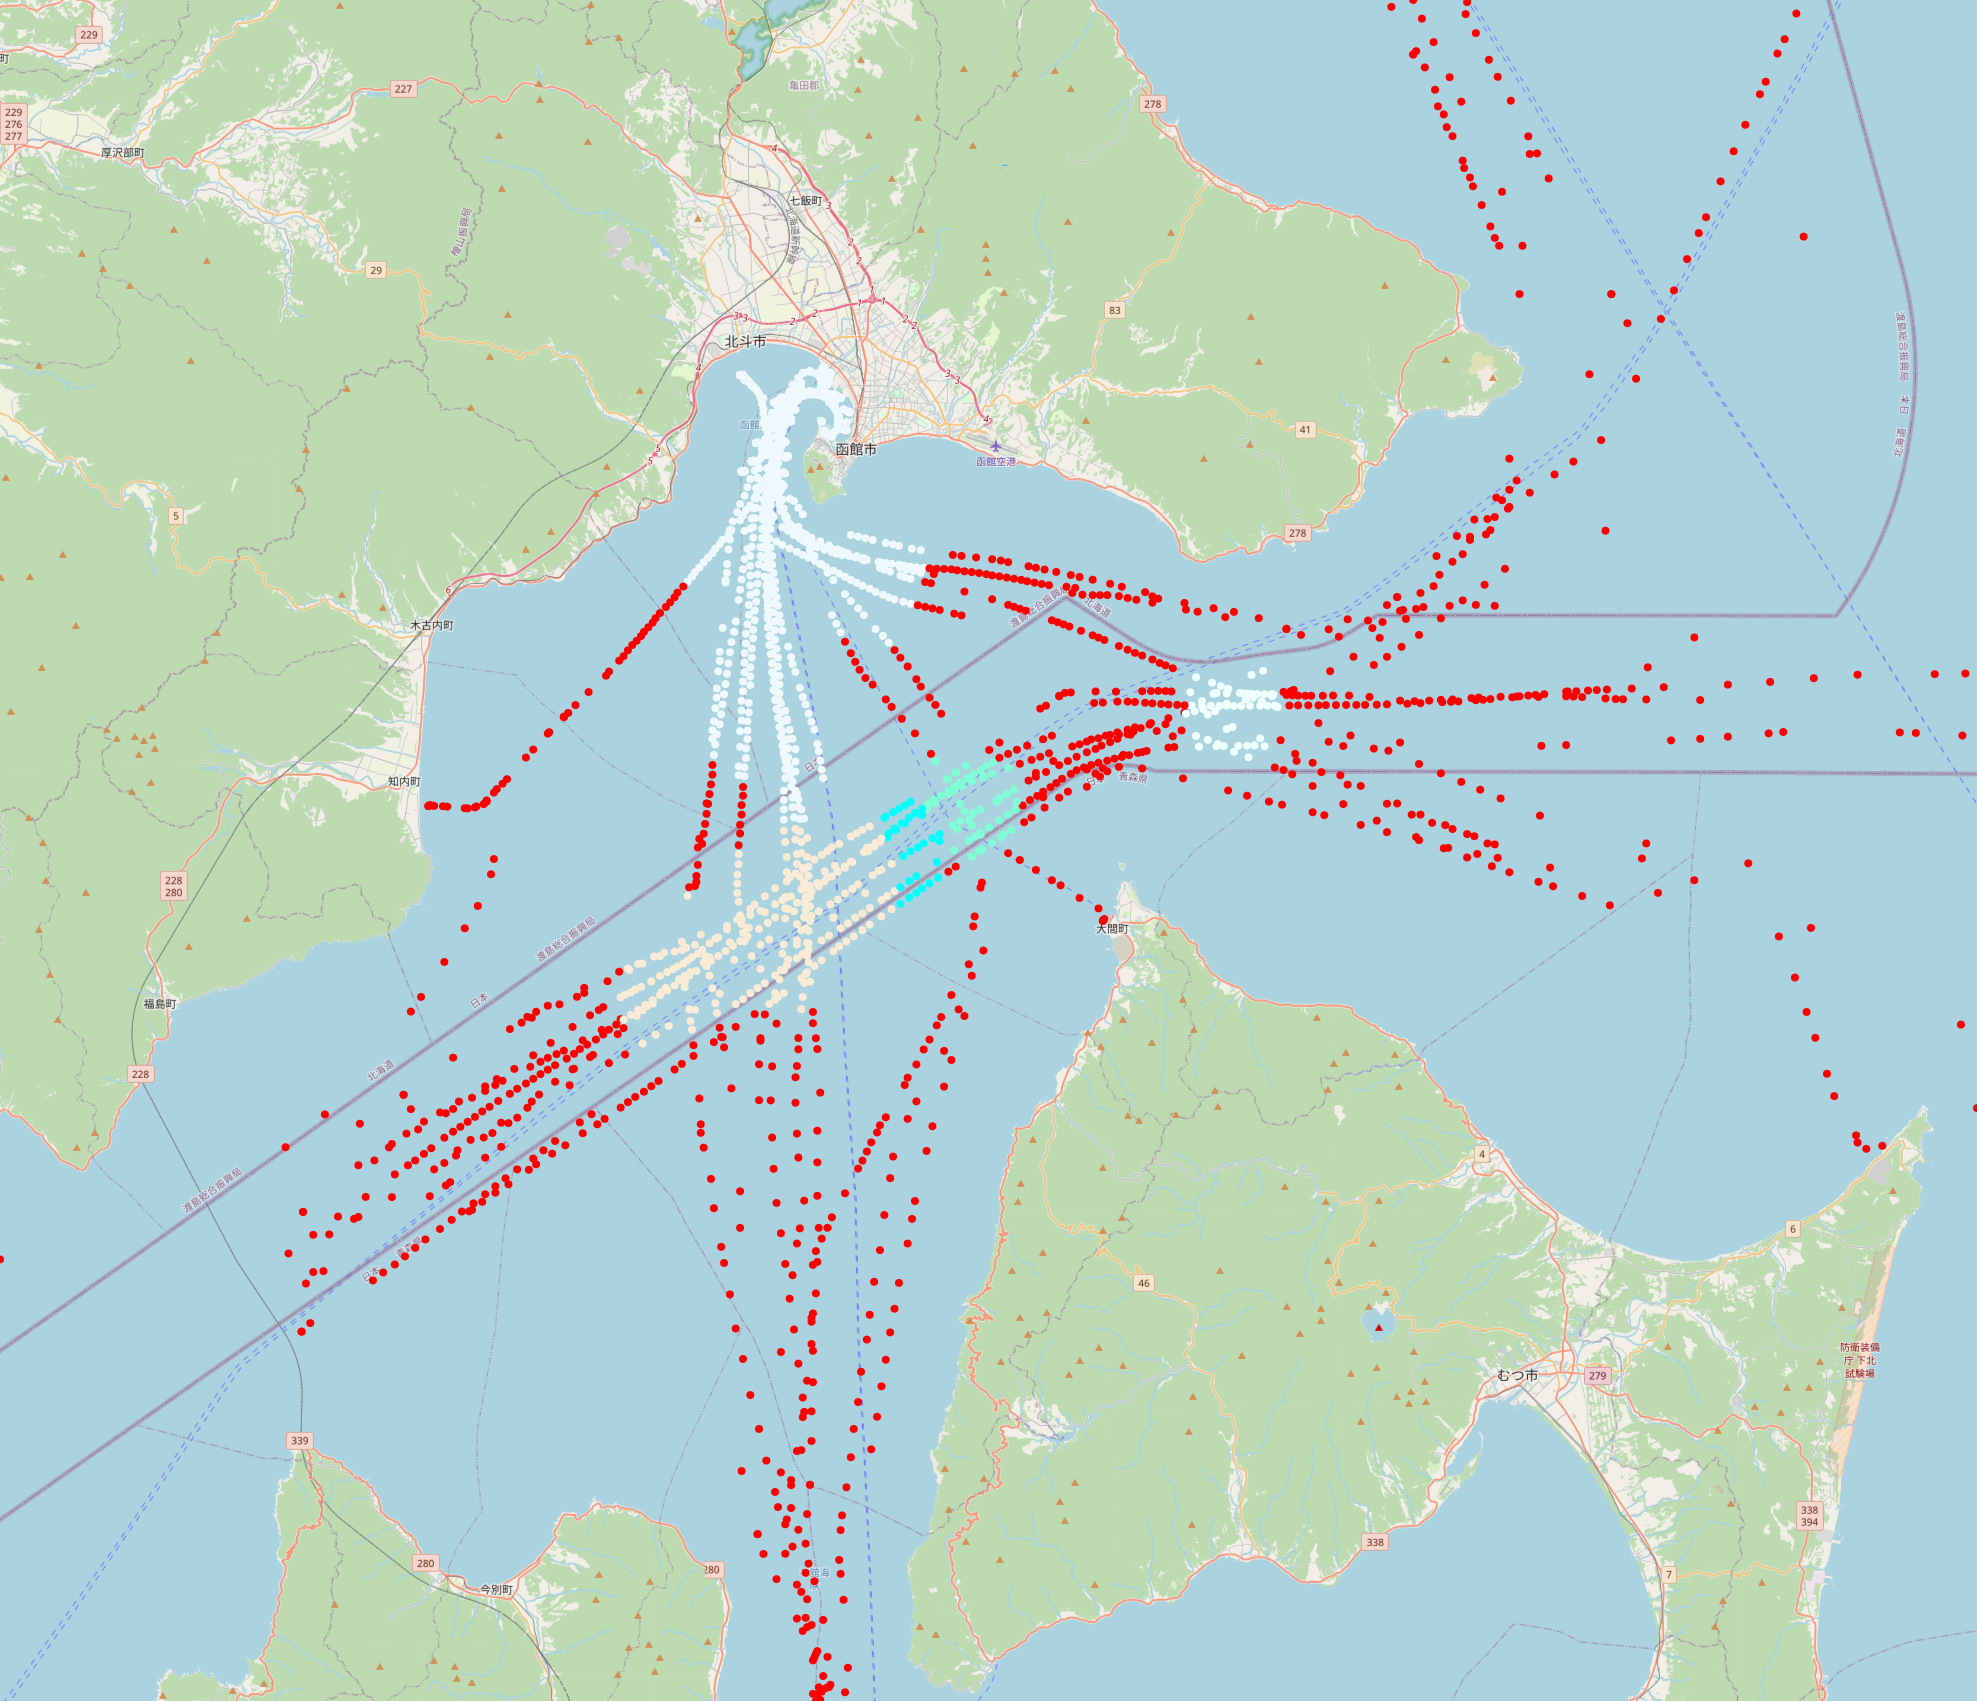
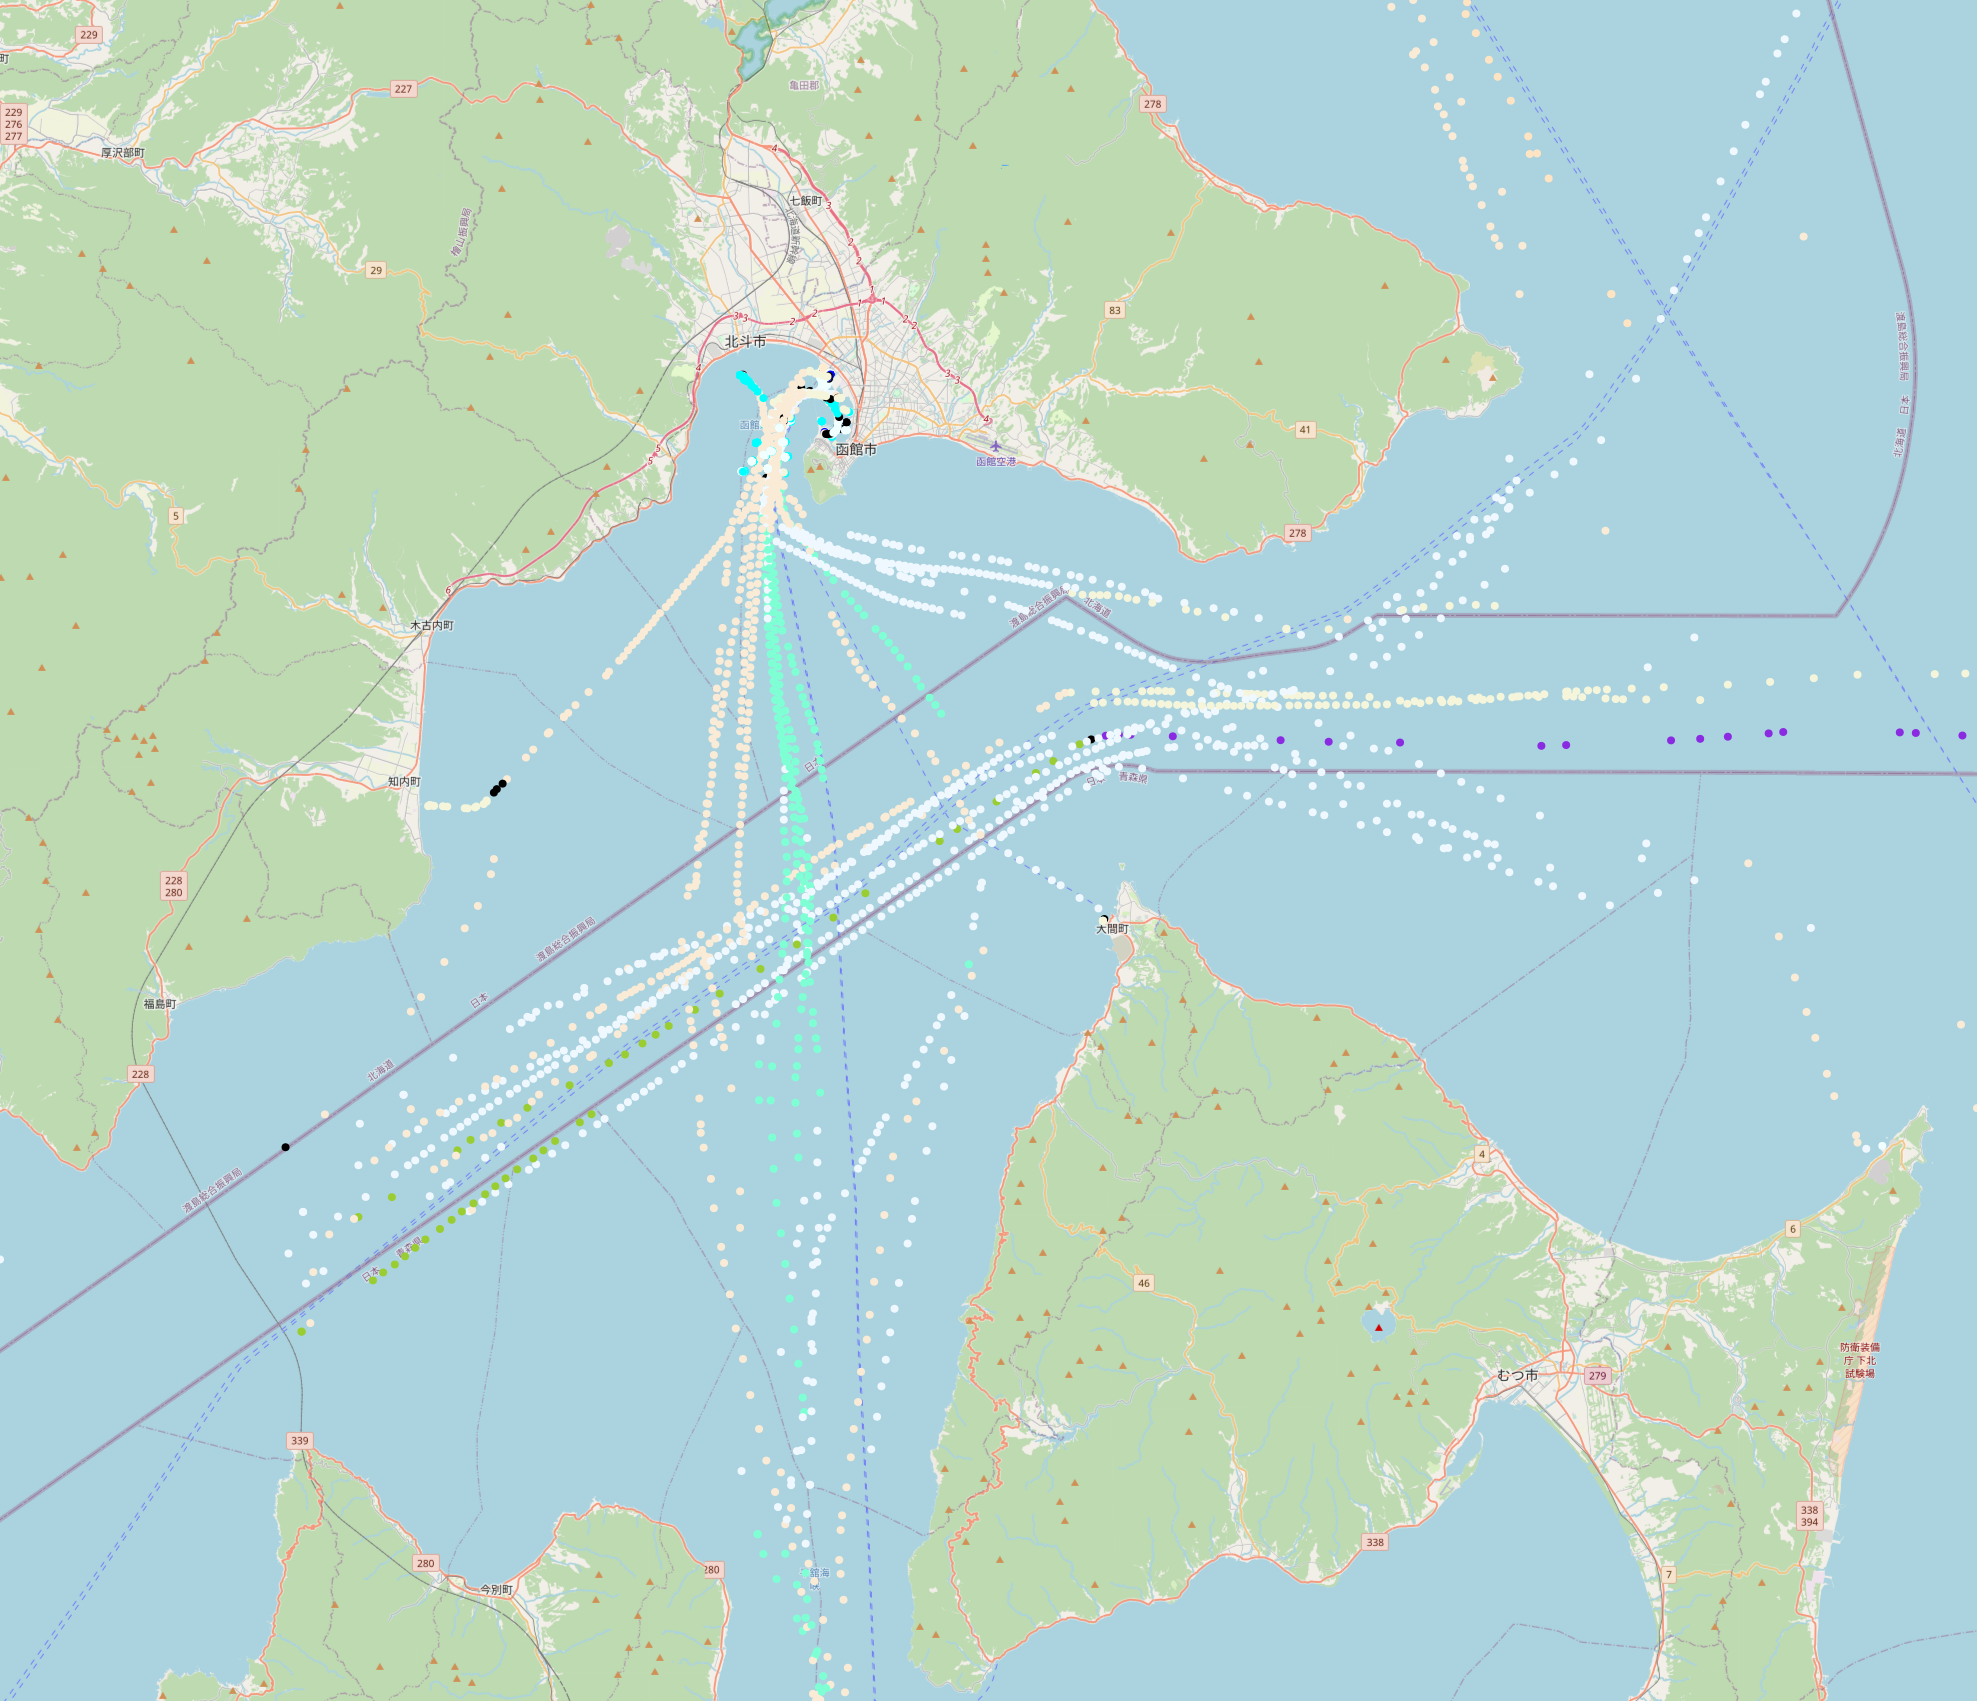
Добавлена кастомная метрика для кластеризации, параметры алгоритма не подобраны

diff --git a/CODE/App/main.py b/CODE/App/main.py
@@ -2,11 +2,12 @@ from sklearn.cluster import DBSCAN
 import numpy as np
 from Map.map import get_map
 from LoadData.load_data import load_data
+import matplotlib.pyplot as plt
 
 
 def main(nrows=None):
     df = load_data('11.11.2015.xlsx', 'marine.xlsx', create_new=False)
-    df = df[['lon', 'lat']]
+    # df = df[['lon', 'lat']]
     min_lat = df['lat'].min()
     min_lon = df['lon'].min()
     max_lat = df['lat'].max()
@@ -14,12 +15,33 @@ def main(nrows=None):
     if nrows:
         df = df.head(nrows)
 
-    # Хромая на обе ноги демонстрация DBSCAN, параметры не подобраны, метрика евклидова
-    clustering = DBSCAN(eps=0.0005, min_samples=50).fit_predict(np.radians(df))
+    # Хромая на обе ноги демонстрация DBSCAN, параметры не подобраны, метрика уже кастомная, веса наугад
+    # dist_list = []
+
+    def custom_dist(a, b, w1, w2, w3, w4):
+        dist = (np.sqrt(w1 * (a[0] - b[0]) ** 2 + w2 * (a[1] - b[1]) ** 2 +
+                        w3 * (a[2] - b[2]) ** 2 + w4 * (a[3] - b[3]) ** 2))
+        # dist_list.append(dist)
+        return dist
+
+    clustering = DBSCAN(eps=25, min_samples=5, metric=custom_dist,
+                        metric_params={'w1': 2, 'w2': 2, 'w3': 1, 'w4': 10}).fit_predict(df)
     df['cluster'] = clustering
     # print(max(df['cluster']))
 
     get_map(min_lat, min_lon, max_lat, max_lon, 11, df, create_new=False)
+
+    # sum_5 = 0
+    # dist_list_5 = []
+    # for i in range(len(dist_list)):
+    #     sum_5 += dist_list[i]
+    #     if (i + 1) % 5 == 0:
+    #         dist_list_5.append(sum_5 / 5)
+    #         sum_5 = 0
+    #
+    # dist_list_5.sort()
+    # plt.plot(dist_list_5)
+    # plt.show()
 
 
 if __name__ == "__main__":

diff --git a/CODE/Map/map.py b/CODE/Map/map.py
@@ -115,8 +115,8 @@ def map_paint(map_image, df, left_top, kx, ky):
     # ВРЕМЕННОЕ РЕШЕНИЕ, С ЦВЕТАМИ НАДО ЧТО-ТО ПРИДУМАТЬ
     colors = list(mcolors.CSS4_COLORS.keys())
     # Шум
-    # colors[-1] = 'black'
-    colors[-1] = 'red'
+    colors[-1] = 'black'
+    # colors[-1] = 'red'
     colors[7] = 'yellowgreen'
     colors = mcolors.to_rgba_array(colors)
 
@@ -138,6 +138,8 @@ def map_paint(map_image, df, left_top, kx, ky):
             red, green, blue, alpha = 1, 0, 0, 1
 
         context.set_source_rgba(red, green, blue, alpha)
+        # if 'cluster' not in df.columns or row['cluster'] != -1:
+        #     context.fill()
         context.fill()
 
     with open("../Map/map_crop_with_dots.png", "wb") as f:

diff --git a/CODE/UI/ui.py b/CODE/UI/ui.py
@@ -1,6 +1,5 @@
 import sys
 
-import screeninfo
 from PyQt6.QtWidgets import *
 from PyQt6.QtGui import *
 from PyQt6.QtCore import *
@@ -8,7 +7,7 @@ from PyQt6.QtCore import *
 from App.main import main
 
 
-class Example(QWidget):
+class UI(QWidget):
 
     def __init__(self):
         super().__init__()
@@ -66,5 +65,5 @@ class Example(QWidget):
 
 if __name__ == '__main__':
     app = QApplication(sys.argv)
-    ex = Example()
+    ex = UI()
     sys.exit(app.exec())
